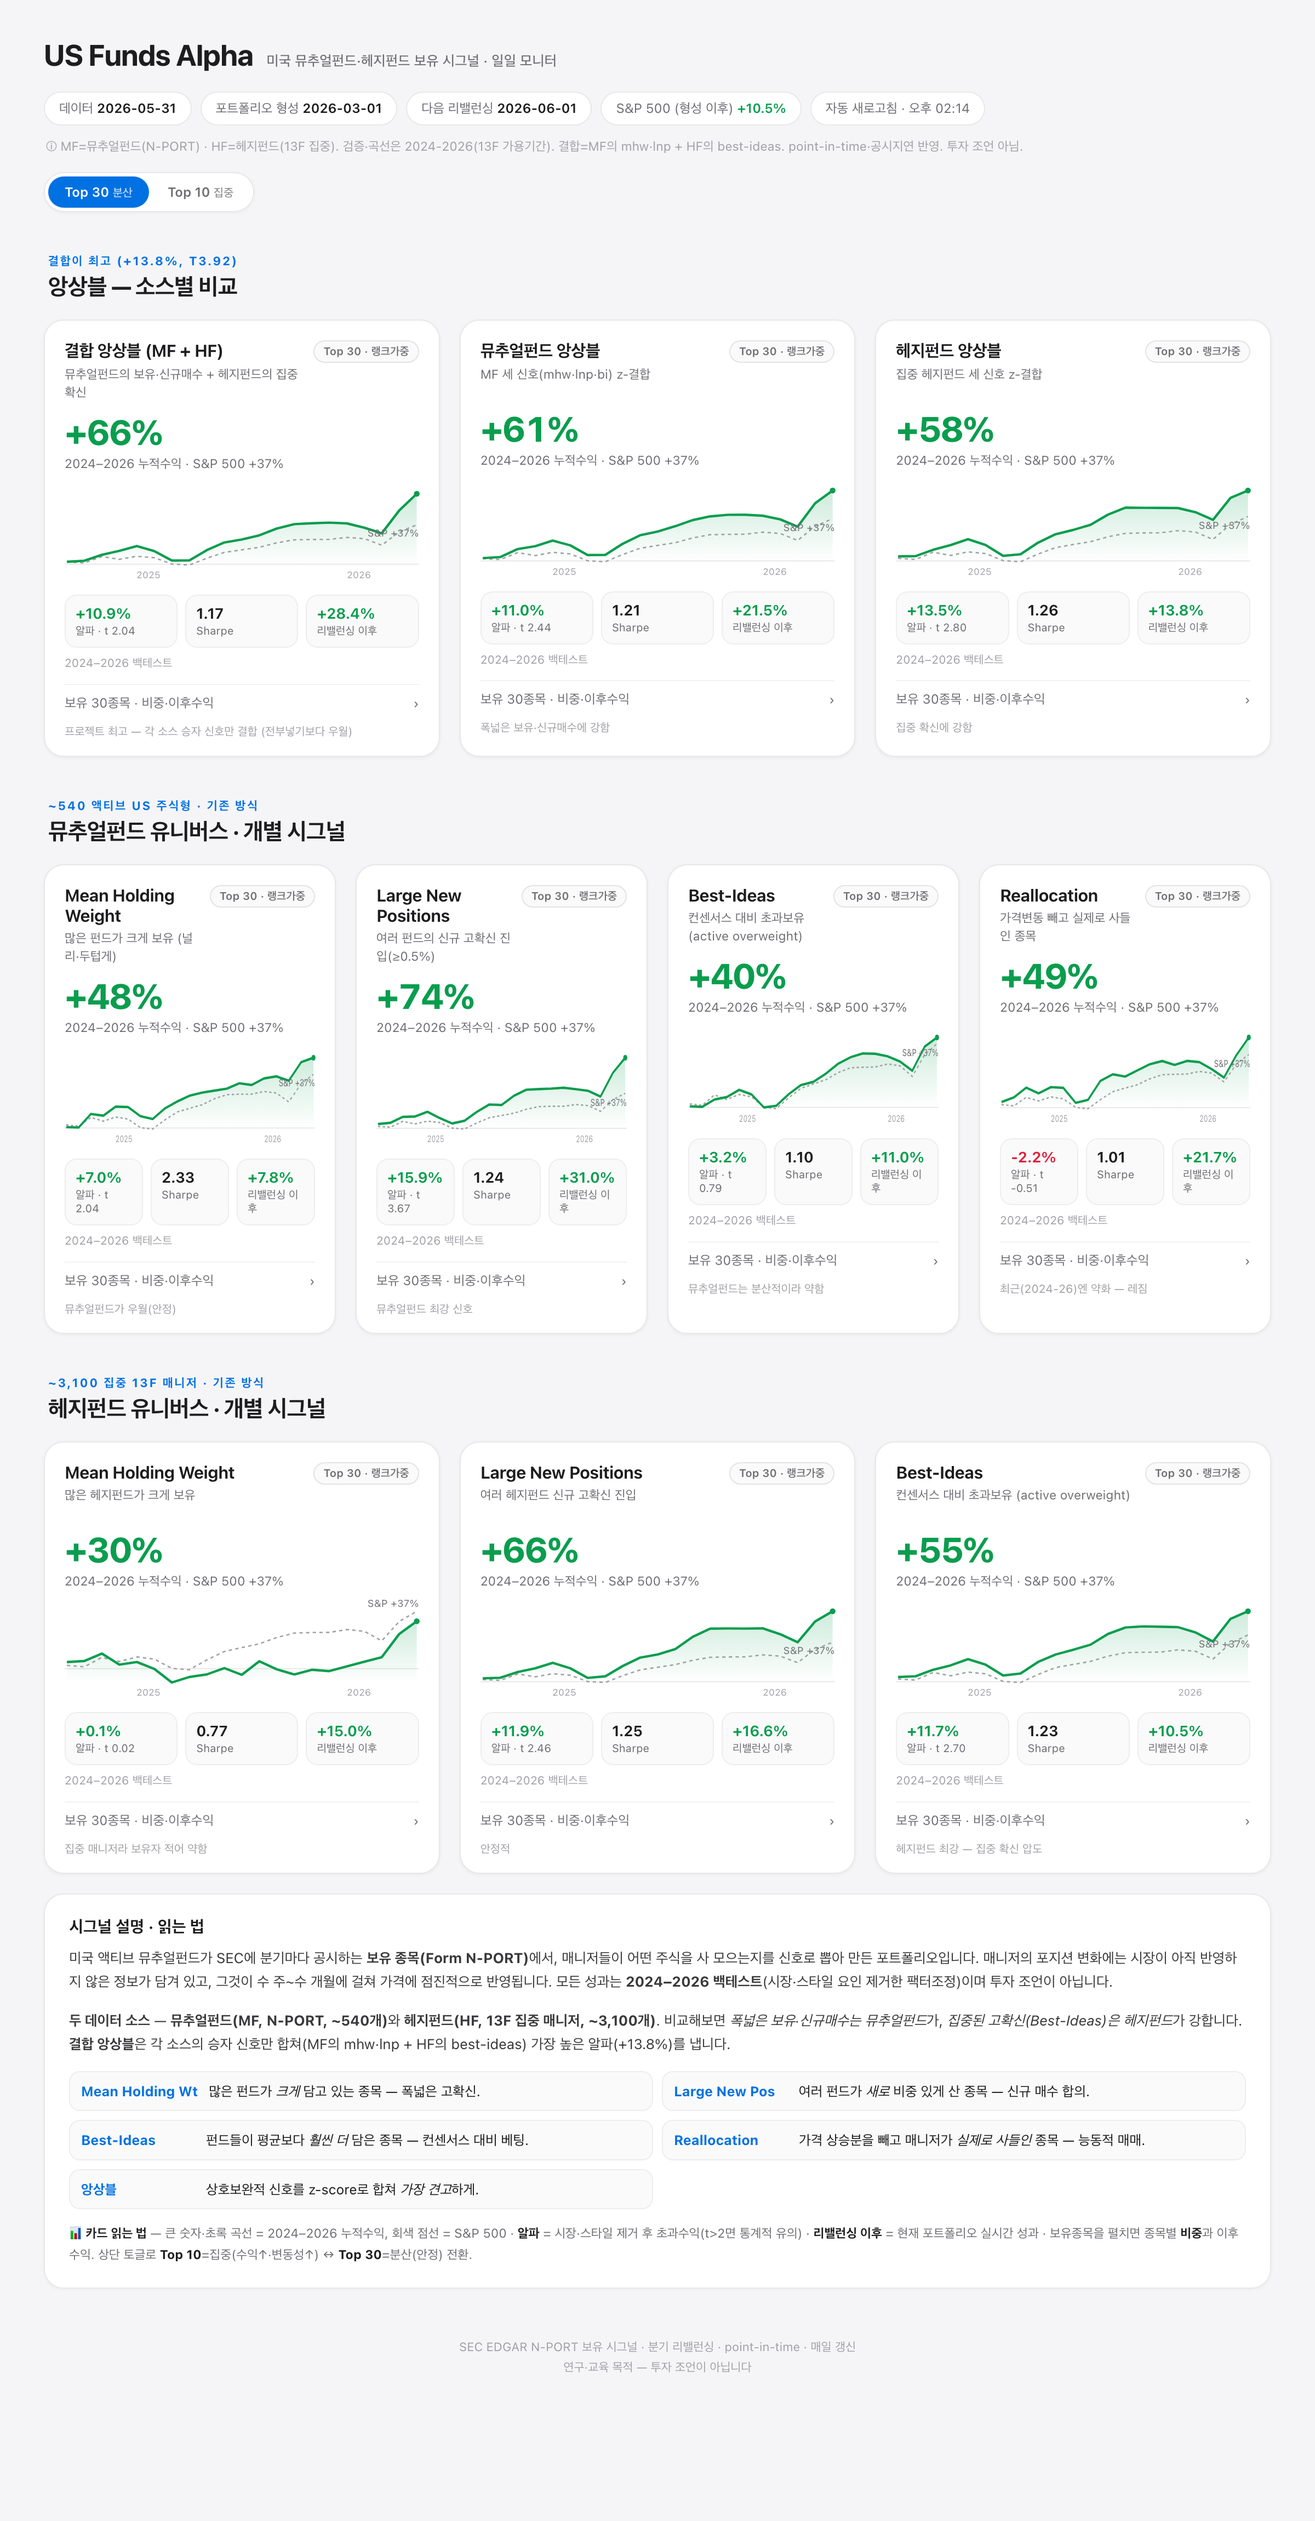
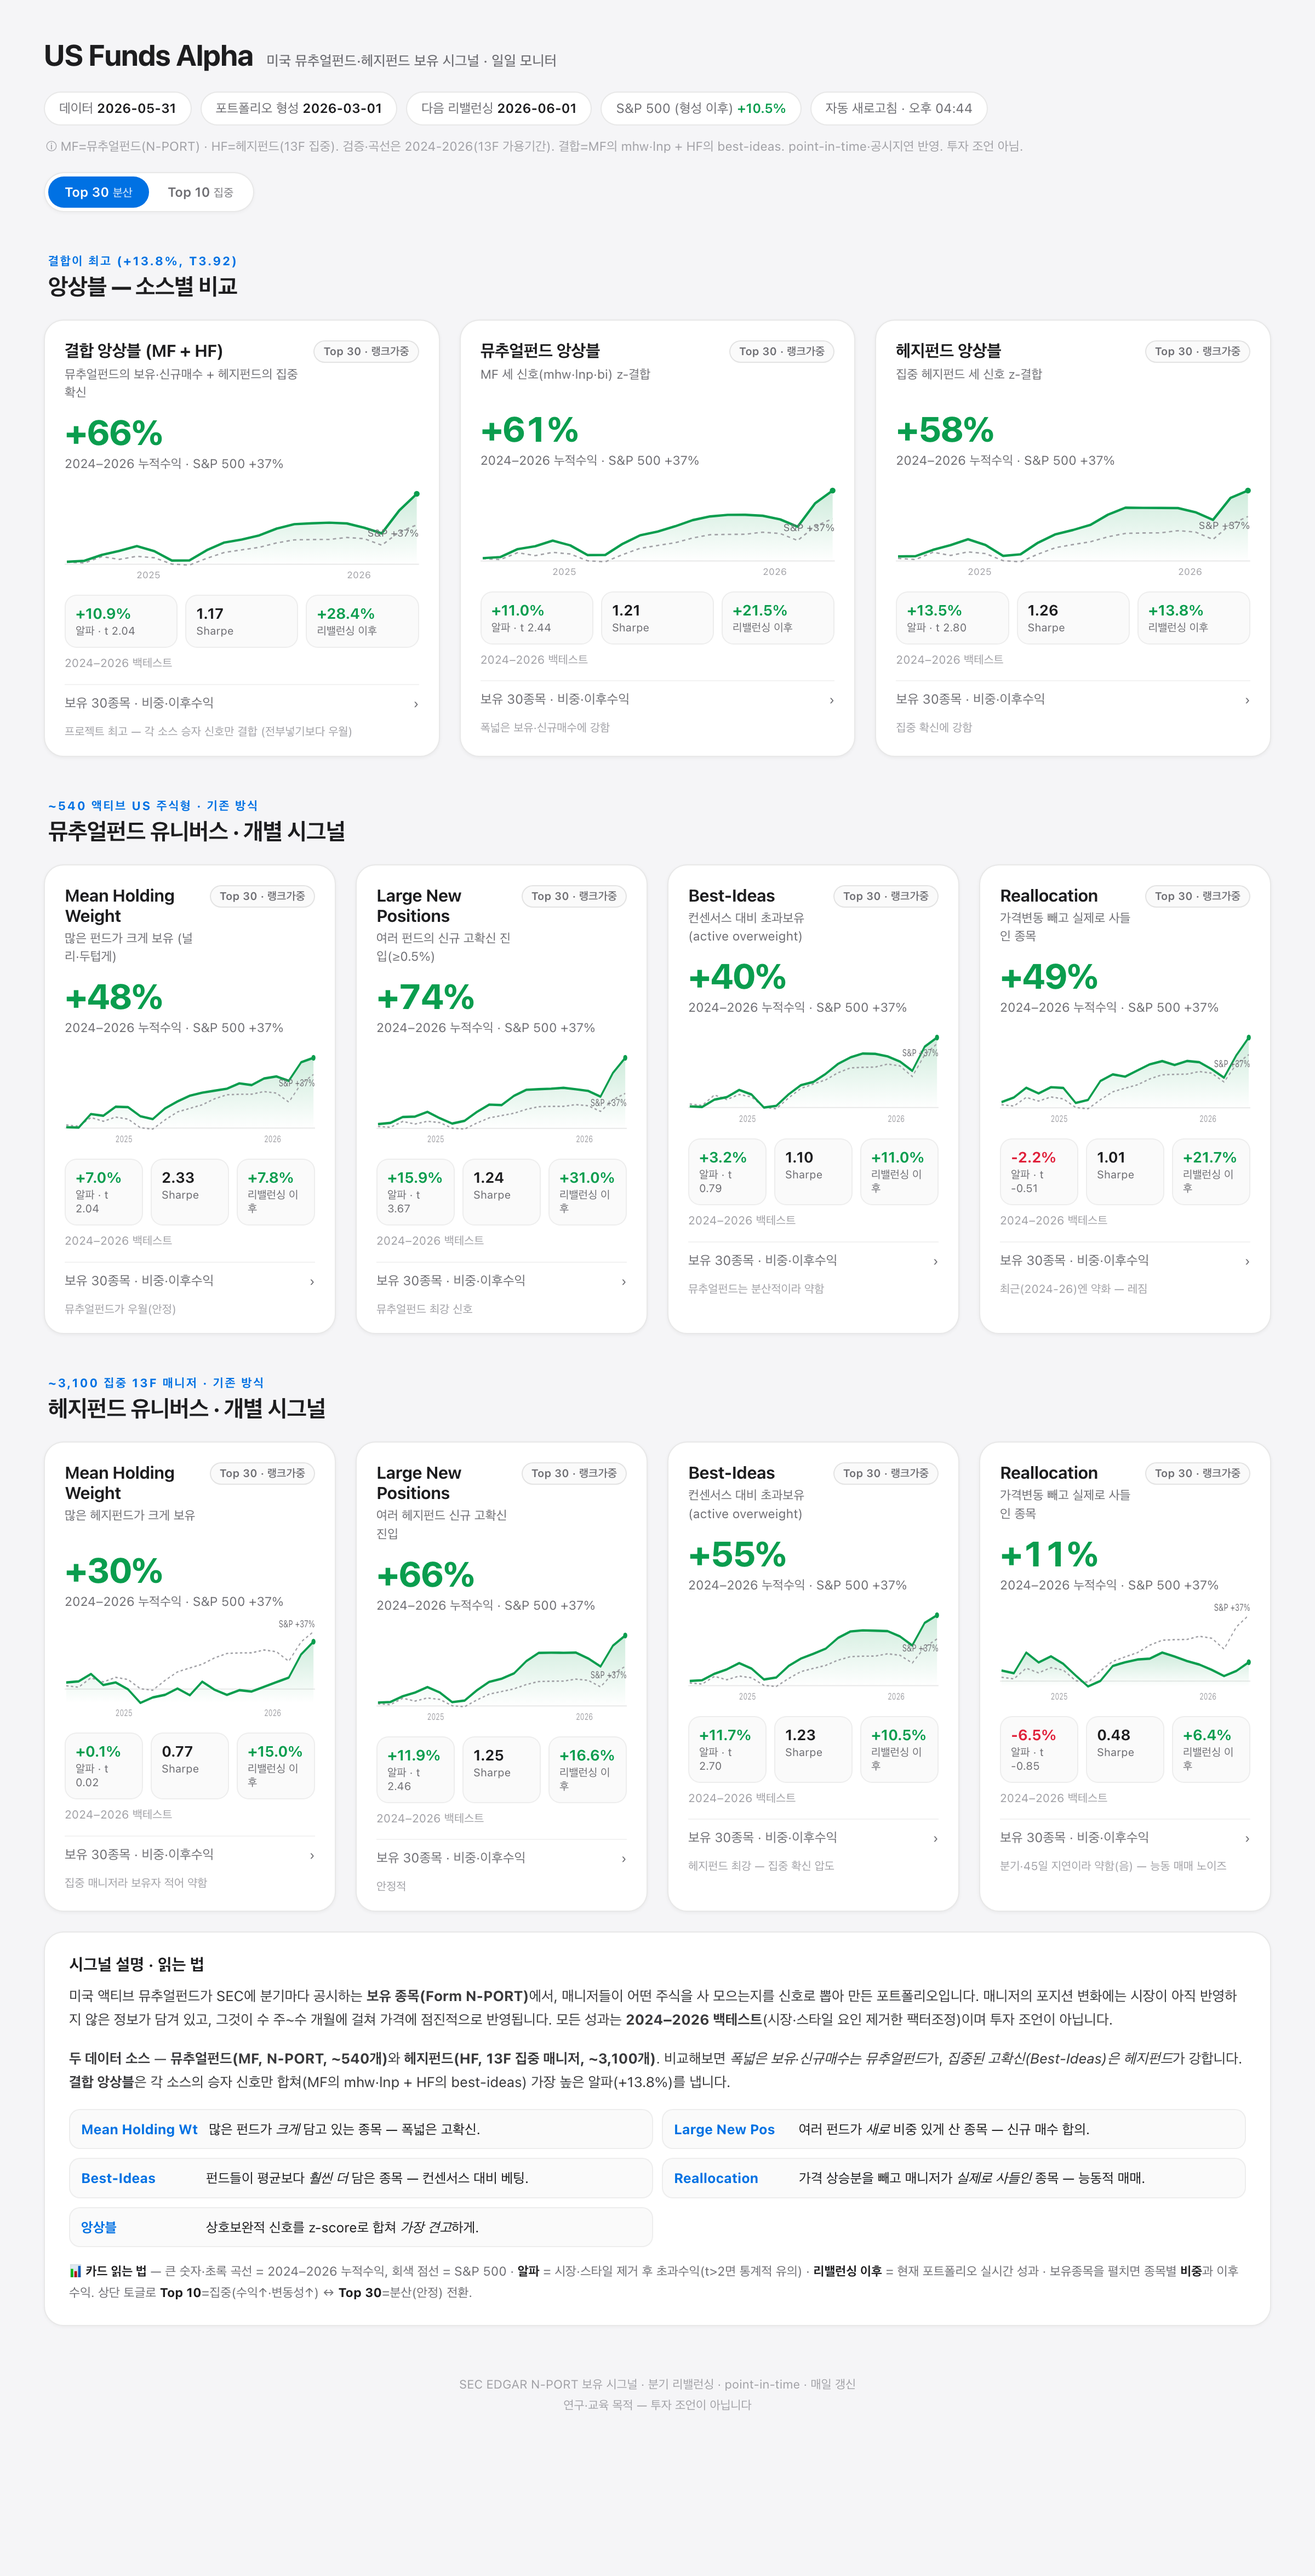
feat: 헤지펀드 구역에 Reallocation 카드 추가 (MF와 대칭)
빠져있던 HF Reallocation을 추가 — 13F도 분기 보유·비중이 있어 계산 가능.
헤지펀드 구역이 mhw·lnp·bi·rlc 4카드로 MF와 대칭.

결과(2024-2026, Top30): hf_rlc α-6.5% t-0.85 (Top10 -19.2%)
 → 13F는 분기·45일 지연이라 능동 매매 신호가 약함(음). MF rlc(-2.2%)보다 더 약해,
   "Reallocation은 양쪽 소스 모두 약하고 HF는 확신형(bi)이 작동"이라는 비교가 완성됨.

- compute_card_stats: HF score_reallocation 추가, hf_rlc 카드(10/30 통계)
- dashboard_data: hf_rlc CARDS/SECTIONS + HFn rlc 컬럼
검증: 오염 0. 주: CIVI(Civitas)는 Yahoo 미서비스(404)로 이후수익 –% 표시.

diff --git a/scripts/dashboard_data.py b/scripts/dashboard_data.py
@@ -26,11 +26,12 @@ CARDS = {
  "hf_mhw": ("Mean Holding Weight", "많은 헤지펀드가 크게 보유", "집중 매니저라 보유자 적어 약함"),
  "hf_lnp": ("Large New Positions", "여러 헤지펀드 신규 고확신 진입", "안정적"),
  "hf_bi":  ("Best-Ideas", "컨센서스 대비 초과보유 (active overweight)", "헤지펀드 최강 — 집중 확신 압도"),
+ "hf_rlc": ("Reallocation", "가격변동 빼고 실제로 사들인 종목", "분기·45일 지연이라 약함(음) — 능동 매매 노이즈"),
 }
 SECTIONS = [
  ("앙상블 — 소스별 비교", "결합이 최고 (+13.8%, t3.92)", ["comb", "mf_ens", "hf_ens"]),
  ("뮤추얼펀드 유니버스 · 개별 시그널", "~540 액티브 US 주식형 · 기존 방식", ["mf_mhw", "mf_lnp", "mf_bi", "mf_rlc"]),
- ("헤지펀드 유니버스 · 개별 시그널", "~3,100 집중 13F 매니저 · 기존 방식", ["hf_mhw", "hf_lnp", "hf_bi"]),
+ ("헤지펀드 유니버스 · 개별 시그널", "~3,100 집중 13F 매니저 · 기존 방식", ["hf_mhw", "hf_lnp", "hf_bi", "hf_rlc"]),
 ]
 
 def fetch_prices(tickers):
@@ -55,10 +56,13 @@ def main():
     hf = fa.load_13f(drop_cusips=fa.noneq_cusips(figi))
     names = mf.drop_duplicates('cusip').set_index('cusip')['name'].to_dict()
     pivot = fa.price_pivot()
-    MFn = fa.score_stocks(fa.fund_timelines(mf), REBAL, figi)
-    rc = fa.score_reallocation(fa.fund_timelines(mf), REBAL, figi, pivot)
+    mf_fw = fa.fund_timelines(mf); hf_fw = fa.fund_timelines(hf)
+    MFn = fa.score_stocks(mf_fw, REBAL, figi)
+    rc = fa.score_reallocation(mf_fw, REBAL, figi, pivot)
     MFn["rlc"] = pd.to_numeric(MFn["cusip"].map(lambda c: rc.get(c, 0.0)), errors="coerce")
-    HFn = fa.score_stocks(fa.fund_timelines(hf), REBAL, figi)
+    HFn = fa.score_stocks(hf_fw, REBAL, figi)
+    hrc = fa.score_reallocation(hf_fw, REBAL, figi, pivot)
+    HFn["rlc"] = pd.to_numeric(HFn["cusip"].map(lambda c: hrc.get(c, 0.0)), errors="coerce")
 
     def picks_df(key):
         if key == "comb":

diff --git a/scripts/compute_card_stats.py b/scripts/compute_card_stats.py
@@ -20,6 +20,9 @@ def main():
     for R in REBS:
         MF[R]["rlc"] = pd.to_numeric(MF[R]["cusip"].map(lambda c, r=rc_all[R]: r.get(c, 0.0)), errors="coerce")
     HF = {R: fa.score_stocks(hf_fw, R, figi) for R in REBS}
+    hf_rc_all = {R: fa.score_reallocation(hf_fw, R, figi, pivot) for R in REBS}
+    for R in REBS:
+        HF[R]["rlc"] = pd.to_numeric(HF[R]["cusip"].map(lambda c, r=hf_rc_all[R]: r.get(c, 0.0)), errors="coerce")
 
     def top(df, col): return df[df.hold >= 3].nlargest(30, col)["ticker"].tolist()
     def combo_picks():
@@ -45,7 +48,7 @@ def main():
 
     cards = {"comb": combo_picks()}
     for k in ["ens", "mhw", "lnp", "bi", "rlc"]: cards[f"mf_{k}"] = {R: top(MF[R], k) for R in REBS}
-    for k in ["ens", "mhw", "lnp", "bi"]: cards[f"hf_{k}"] = {R: top(HF[R], k) for R in REBS}
+    for k in ["ens", "mhw", "lnp", "bi", "rlc"]: cards[f"hf_{k}"] = {R: top(HF[R], k) for R in REBS}
     for key, pk in cards.items():
         pk10 = {R: pk[R][:10] for R in REBS}                 # 랭크순이므로 상위10 = Top30[:10]
         out[key] = card(pk)
